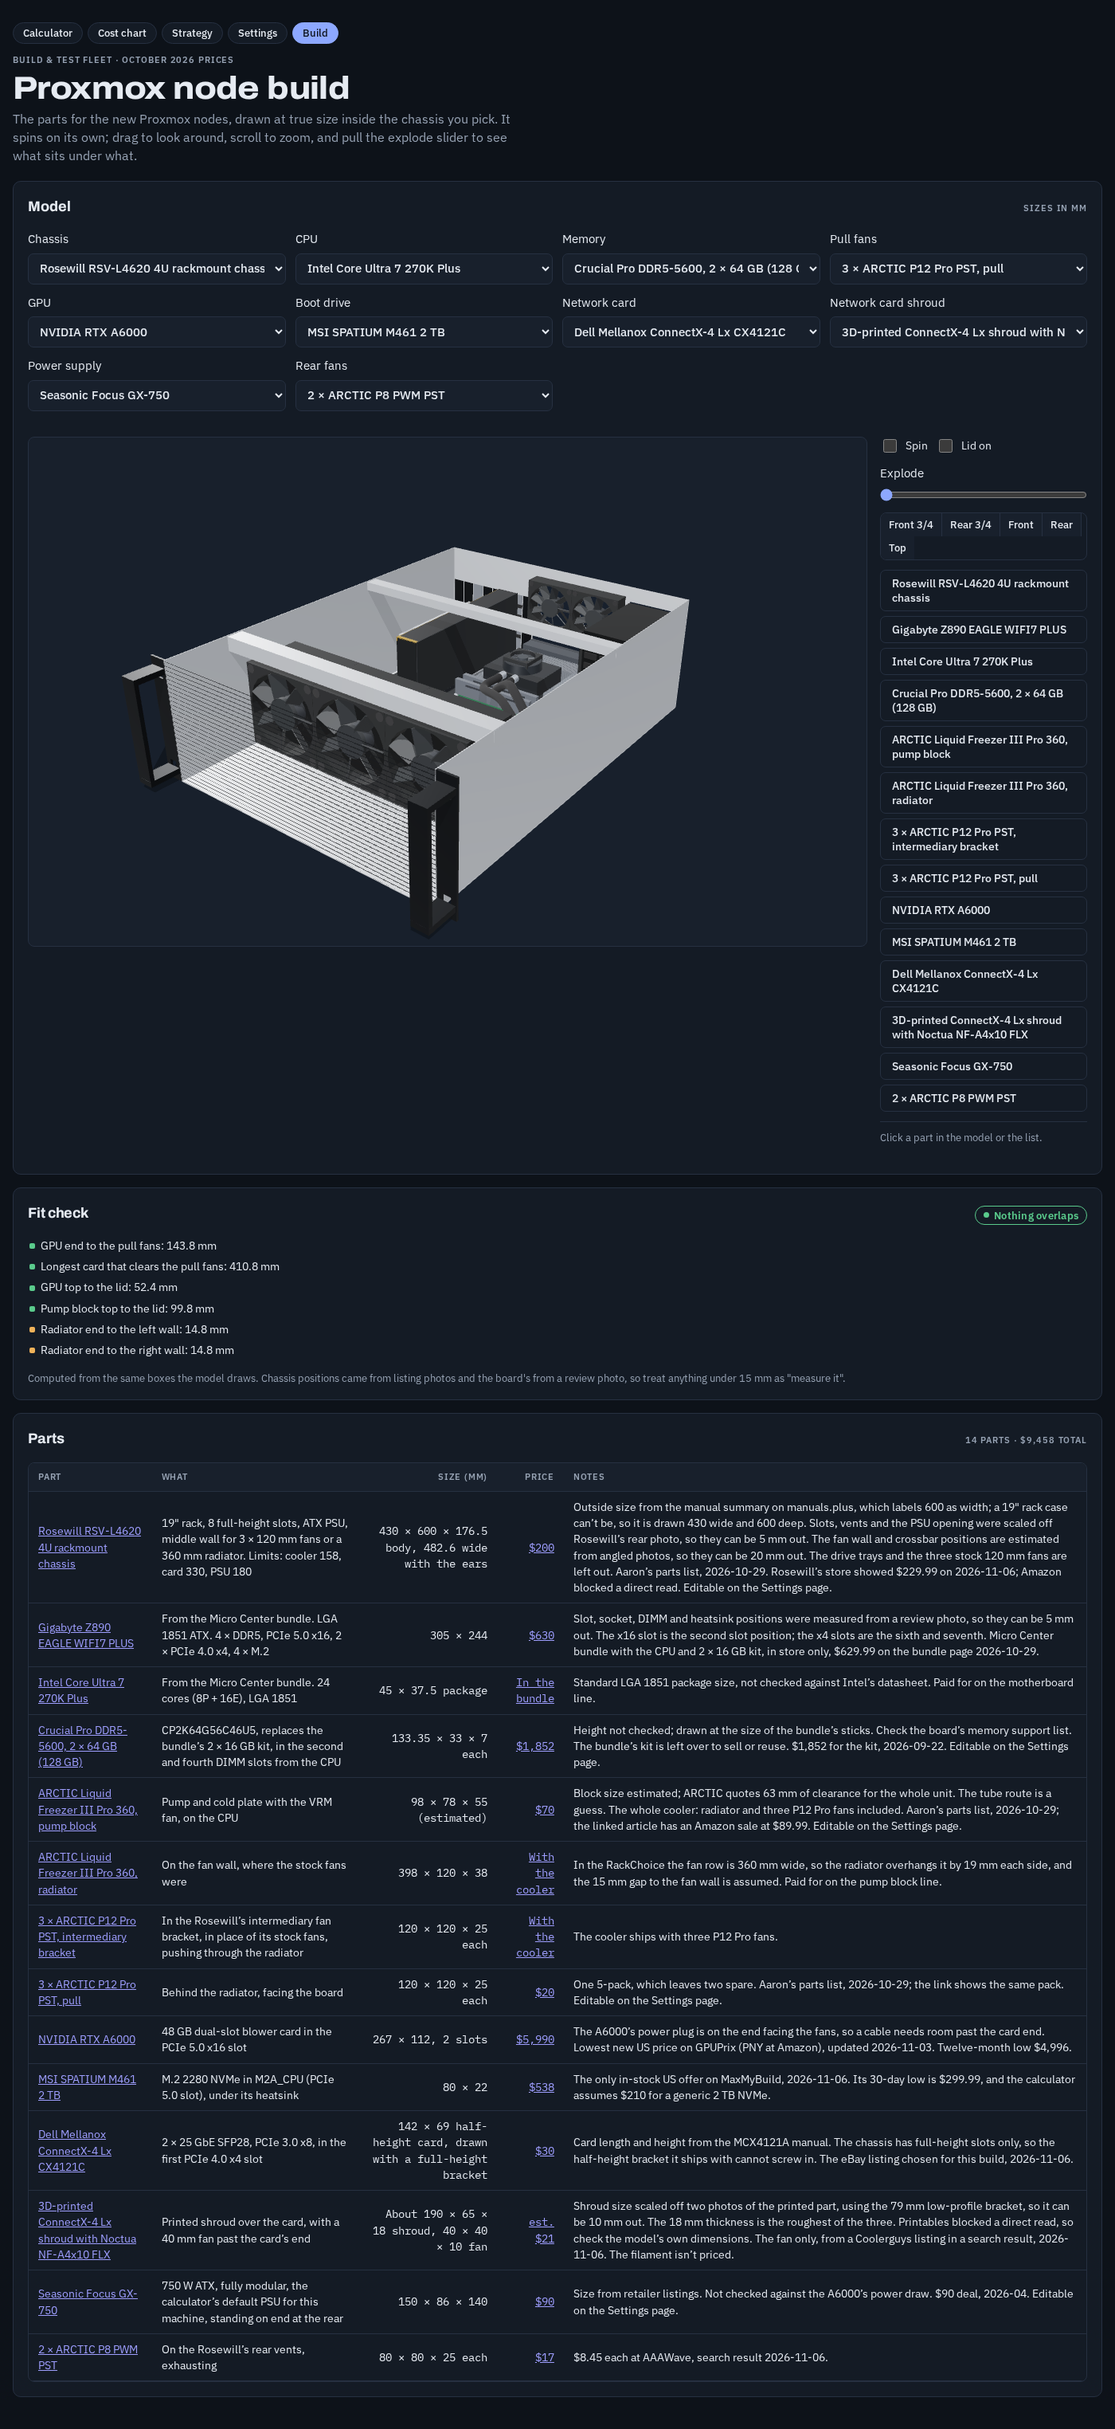
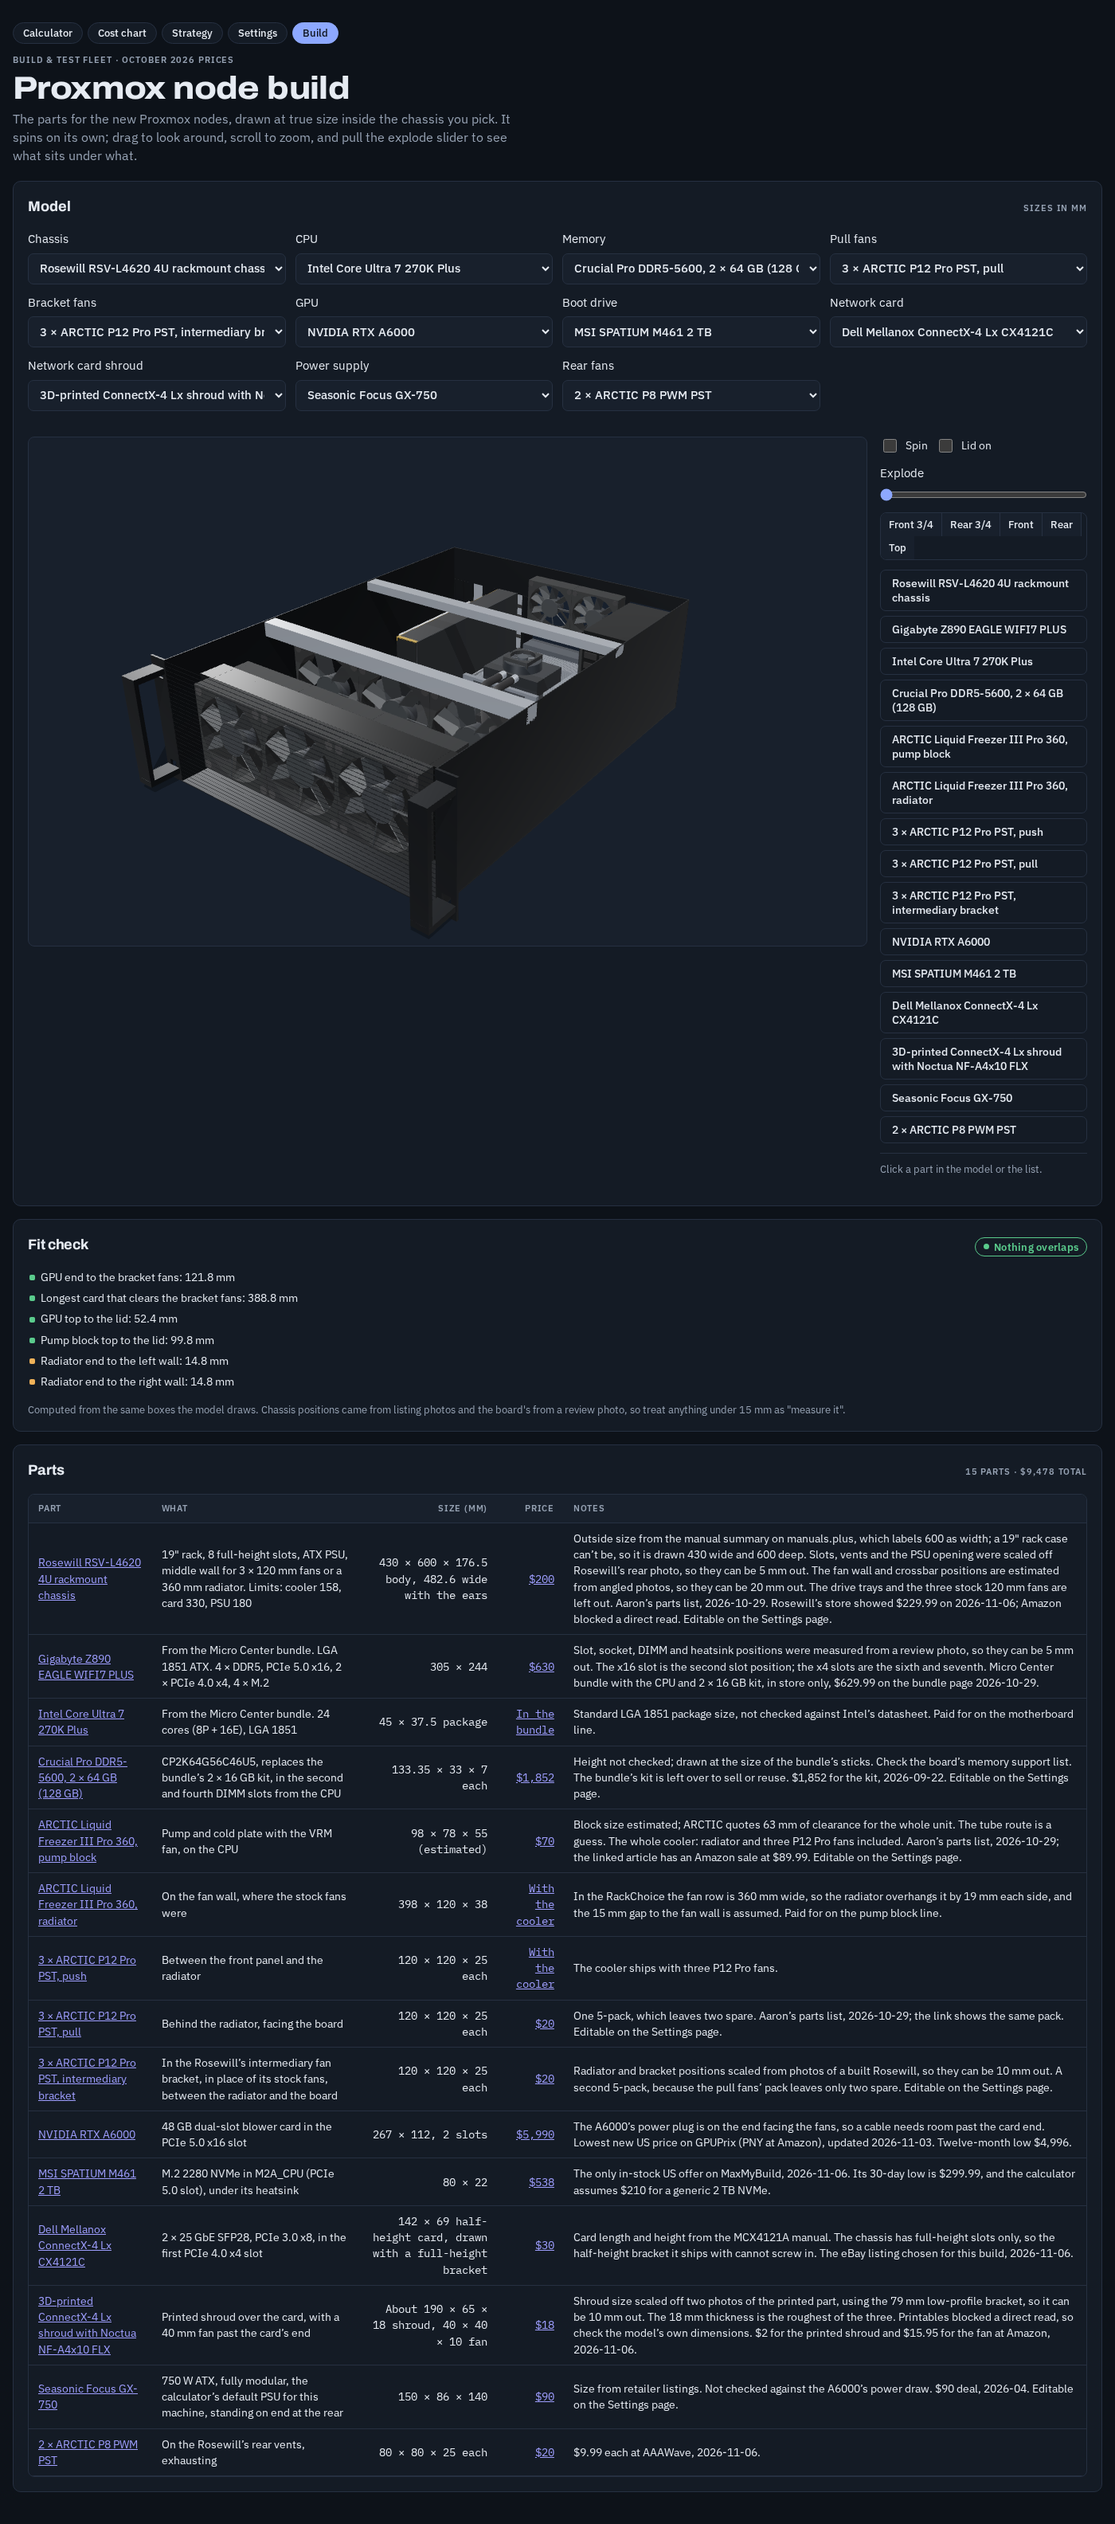
Make the Rosewill black and lay it out like a built one
Radiator at the front with fans on both sides, a separate bracket fan row,
tubes through the gap at the wall and silver crossbars, all scaled from the
owner's photos of a built Rosewill. Nine P12 fans need a second 5-pack.

diff --git a/src/lib/build/layout.ts b/src/lib/build/layout.ts
@@ -60,13 +60,13 @@ const CHASSIS: Record<string, Chassis> = {
     rearHoles: [{ rect: [-46, 9, 113, 60] }, { rect: [134, 3, 198, 120] }, { circle: [2, 94, 29] }, { circle: [68, 94, 29] }],
     body: 0x1c1f23, targetY: 60, frame: 1,
   },
-  // Rear positions scaled off Rosewill's square-on rear photo; the fan wall is estimated from its angled photos.
+  // Rear positions scaled off Rosewill's square-on rear photo; the radiator stack is scaled from photos of a built one.
   rosewill: {
     W: 430, H: 176.5, D: 600, io: 108, slotY: [23, 120],
-    fanX: [-120, 0, 120], fanY: 88, fanWall: 100,
+    fanX: [-120, 0, 120], fanY: 88, fanWall: 15,
     psuX: 164.75, rearFanX: [-5, 75], rearFanY: 120,
     rearHoles: [{ rect: [-49, 12, 112, 63] }, { rect: [122, 3, 207.5, 153] }, { circle: [-5, 120, 38] }, { circle: [75, 120, 38] }],
-    body: 0xb4b8be, targetY: 80, frame: 1.3,
+    body: 0x1c1f23, targetY: 80, frame: 1.3,
   },
 };
 
@@ -81,6 +81,9 @@ const FAN = 25;
 const RAD = 38;
 /** Width, height and depth as the PSU stands on end, modular face toward the front. */
 const PSU_SIZE: Record<string, [number, number, number]> = { sf1000: [63.5, 125, 100], gx750: [86, 150, 140] };
+
+/** Front face to the Rosewill's bracket fans, scaled from photos of a built one. */
+const BRACKET = 185;
 
 /** Box id prefix, which sets the colour, and frame size for each rear fan. */
 const REAR_FAN: Record<string, [string, number]> = { 'nf-a6x25': ['rear-fan', 60], p8: ['rear-p8', 80], 'nf-r8': ['rear-r8', 80] };
@@ -131,9 +134,9 @@ export function layout(config: Config): Box[] {
     // Front-panel USB/switch board, in the front-right corner behind the door.
     b.push(box('front-io', 'chassis', 'solid', [X(388), 95, ZF(14)], [X(418), 128, ZF(2)], fwd(120)));
   } else {
-    // The crossbar over the board and the top of the fan wall. Shells, so a guess at their height can't fail the check.
+    // The crossbar over the board and the bracket's bar. Shells, so a guess at their height can't fail the check.
     b.push(box('bar-mid', 'chassis', 'shell', [-W / 2, H - 14, ZR(205)], [W / 2, H - T, ZR(225)], up(110)));
-    b.push(box('bar-wall', 'chassis', 'shell', [-W / 2, H - 22, ZF(C.fanWall + FAN)], [W / 2, H - T, ZF(C.fanWall)], up(110)));
+    b.push(box('bar-wall', 'chassis', 'shell', [-W / 2, H - 22, ZF(BRACKET)], [W / 2, H - T, ZF(BRACKET - 20)], up(110)));
   }
   // Blank covers on every slot no card uses.
   const used = [...(config.gpu ? [GPU_SLOT, GPU_SLOT + 1] : []), ...(config.nic ? [NIC_SLOT] : [])];
@@ -194,6 +197,7 @@ export function layout(config: Config): Box[] {
   // Front wall: push fans, radiator, pull fans.
   C.fanX.forEach((cx, i) => b.push(centred(`push-${i}`, 'fans-push', 'solid', [cx, C.fanY, ZF(C.fanWall + FAN / 2)], [120, 120, FAN], fwd(150))));
   b.push(centred('radiator', 'radiator', 'solid', [(C.fanX[0] + C.fanX[2]) / 2, C.fanY, ZF(C.fanWall + FAN + RAD / 2)], [398, 120, RAD], fwd(100)));
+  if (config['fans-bracket']) C.fanX.forEach((cx, i) => b.push(centred(`bracket-${i}`, 'fans-bracket', 'solid', [cx, C.fanY, ZF(BRACKET + FAN / 2)], [120, 120, FAN], up(60))));
   if (config['fans-pull']) C.fanX.forEach((cx, i) => b.push(centred(`pull-${i}`, 'fans-pull', 'solid', [cx, C.fanY, ZF(C.fanWall + FAN + RAD + FAN / 2)], [120, 120, FAN], fwd(50))));
 
   return b;
@@ -225,9 +229,9 @@ export function checkFit(boxes: Box[], config: Config): Fit {
   const outside = solids.filter((b) => [0, 1, 2].some((k) => b.min[k] < lim[k][0] - 0.01 || b.max[k] > lim[k][1] + 0.01)).map((b) => b.id);
   const by = (id: string) => boxes.find((b) => b.id === id);
   const gpu = by('gpu'), rad = by('radiator')!, pump = by('pump')!;
-  const pull = by('pull-0');
-  const wall = pull ?? rad;
-  const wallName = pull ? 'pull fans' : 'radiator';
+  const bracket = by('bracket-0'), pull = by('pull-0');
+  const wall = bracket ?? pull ?? rad;
+  const wallName = bracket ? 'bracket fans' : pull ? 'pull fans' : 'radiator';
   const gaps = [
     ...(gpu ? [
       { label: `GPU end to the ${wallName}`, mm: wall.min[2] - gpu.max[2] },

diff --git a/src/data/build.ts b/src/data/build.ts
@@ -170,7 +170,7 @@ export const SLOTS: Slot[] = [
     parts: [{
       id: 'lf3-radiator',
       name: 'ARCTIC Liquid Freezer III Pro 360, radiator',
-      spec: 'On the fan wall, where the stock fans were',
+      spec: 'At the front of the case; in the RackChoice, on the fan wall where the stock fans were',
       size: '398 × 120 × 38',
       source: 'https://www.alza.cz/kod/CBlf3b07',
       note: 'In the RackChoice the fan row is 360 mm wide, so the radiator overhangs it by 19 mm each side, and the 15 mm gap to the fan wall is assumed.',
@@ -184,16 +184,6 @@ export const SLOTS: Slot[] = [
     id: 'fans-push',
     label: 'Push fans',
     parts: [{
-      id: 'p12-bracket',
-      name: '3 × ARCTIC P12 Pro PST, intermediary bracket',
-      spec: 'In the Rosewill’s intermediary fan bracket, in place of its stock fans, pushing through the radiator',
-      size: '120 × 120 × 25 each',
-      url: 'https://tomshardware.com/pc-components/the-best-cpu-cooler-money-can-buy-is-now-just-usd89-99-grab-28-percent-off-an-arctic-liquid-freezer-iii-pro-at-amazon-just-usd7-shy-of-its-best-ever-price',
-      price: 0,
-      priceLabel: 'With the cooler',
-      priceNote: 'The cooler ships with three P12 Pro fans.',
-      chassis: 'rosewill',
-    }, {
       id: 'p12-push',
       name: '3 × ARCTIC P12 Pro PST, push',
       spec: 'Between the front panel and the radiator',
@@ -202,7 +192,6 @@ export const SLOTS: Slot[] = [
       price: 0,
       priceLabel: 'With the cooler',
       priceNote: 'The cooler ships with three P12 Pro fans.',
-      chassis: 'rackchoice',
     }],
   },
   {
@@ -217,6 +206,22 @@ export const SLOTS: Slot[] = [
       url: 'https://www.centralcomputer.com/arctic-acfan00307a-p12-pro-pst-5-pack-black-powerful-premium-fan-120-mm-pwm-fan-with-y-cable-splitter-600-3000-rpm-0-rpm-5-pwm-fluid-dynamic-bearing-4-pin.html',
       price: (s) => s.parts.fans,
       priceNote: `One 5-pack, which leaves two spare. Aaron’s parts list, 2026-10-29; the link shows the same pack. ${SETTINGS}`,
+    }],
+  },
+  {
+    id: 'fans-bracket',
+    label: 'Bracket fans',
+    optional: true,
+    parts: [{
+      id: 'p12-bracket',
+      name: '3 × ARCTIC P12 Pro PST, intermediary bracket',
+      spec: 'In the Rosewill’s intermediary fan bracket, in place of its stock fans, between the radiator and the board',
+      size: '120 × 120 × 25 each',
+      note: 'Radiator and bracket positions scaled from photos of a built Rosewill, so they can be 10 mm out.',
+      url: 'https://www.centralcomputer.com/arctic-acfan00307a-p12-pro-pst-5-pack-black-powerful-premium-fan-120-mm-pwm-fan-with-y-cable-splitter-600-3000-rpm-0-rpm-5-pwm-fluid-dynamic-bearing-4-pin.html',
+      price: (s) => s.parts.fans,
+      priceNote: `A second 5-pack, because the pull fans’ pack leaves only two spare. ${SETTINGS}`,
+      chassis: 'rosewill',
     }],
   },
   {
@@ -351,8 +356,8 @@ export const SLOTS: Slot[] = [
 
 /** The parts each chassis is built with; choosing a chassis sets these, and they can still be changed after. */
 const CHASSIS_PARTS: Record<string, Config> = {
-  rackchoice: { psu: 'sf1000', 'fans-rear': 'nf-a6x25', 'fans-push': 'p12-push' },
-  rosewill: { psu: 'gx750', 'fans-rear': 'p8', 'fans-push': 'p12-bracket' },
+  rackchoice: { psu: 'sf1000', 'fans-rear': 'nf-a6x25', 'fans-bracket': null },
+  rosewill: { psu: 'gx750', 'fans-rear': 'p8', 'fans-bracket': 'p12-bracket' },
 };
 export const withChassis = (c: Config, chassis: string): Config => ({ ...c, chassis, ...CHASSIS_PARTS[chassis] });
 

diff --git a/test/build.test.ts b/test/build.test.ts
@@ -21,7 +21,7 @@ describe('build layout', () => {
       expect(fit.overlaps).toEqual([]);
     });
 
-    it(`${name}: leaves room between the GPU and the pull fans`, () => {
+    it(`${name}: leaves room between the GPU and the fans ahead of it`, () => {
       const gap = fit.gaps.find((g) => g.label.startsWith('GPU end'))!;
       expect(gap.mm).toBeGreaterThan(0);
     });
@@ -33,8 +33,8 @@ describe('build layout', () => {
   });
 
   it('RackChoice is the default, and a chassis sets its parts and leaves the rest alone', () => {
-    expect(DEFAULT_CONFIG).toMatchObject({ chassis: 'rackchoice', psu: 'sf1000', 'fans-rear': 'nf-a6x25', 'fans-push': 'p12-push' });
-    expect(rosewill).toEqual({ ...DEFAULT_CONFIG, chassis: 'rosewill', psu: 'gx750', 'fans-rear': 'p8', 'fans-push': 'p12-bracket' });
+    expect(DEFAULT_CONFIG).toMatchObject({ chassis: 'rackchoice', psu: 'sf1000', 'fans-rear': 'nf-a6x25', 'fans-bracket': null });
+    expect(rosewill).toEqual({ ...DEFAULT_CONFIG, chassis: 'rosewill', psu: 'gx750', 'fans-rear': 'p8', 'fans-bracket': 'p12-bracket' });
     expect(withChassis(rosewill, 'rackchoice')).toEqual(DEFAULT_CONFIG);
   });
 
@@ -49,6 +49,16 @@ describe('build layout', () => {
       expect(checkFit(boxes, c).overlaps).toEqual([]);
       expect(checkFit(boxes, c).outside).toEqual([]);
     }
+  });
+
+  it('Rosewill stacks fans, radiator and fans at the front, then the bracket fans, then the board', () => {
+    const boxes = layout(rosewill);
+    const z = (id: string) => boxes.find((b) => b.id === id)!;
+    expect(z('push-0').max[2]).toBeGreaterThan(z('radiator').max[2]);
+    expect(z('radiator').min[2]).toBeGreaterThanOrEqual(z('pull-0').max[2]);
+    expect(z('pull-0').min[2]).toBeGreaterThan(z('bracket-0').max[2]);
+    expect(z('bracket-0').min[2]).toBeGreaterThan(z('gpu').max[2]);
+    expect(layout(DEFAULT_CONFIG).some((b) => b.part === 'fans-bracket')).toBe(false);
   });
 
   it('warns only when there is no GPU and the CPU has no integrated graphics', () => {

diff --git a/e2e/build.spec.ts b/e2e/build.spec.ts
@@ -59,7 +59,30 @@ test('swapping parts updates the model, the fit check and the prices', async ({ 
   await page.getByLabel('Chassis').selectOption('rackchoice');
   await expect(page.getByLabel('Power supply')).toHaveValue('sf1000');
   await expect(page.getByLabel('Rear fans')).toHaveValue('nf-a6x25');
-  await expect(page.getByRole('button', { name: '3 × ARCTIC P12 Pro PST, push' })).toBeVisible();
+  await expect(page.getByRole('button', { name: '3 × ARCTIC P12 Pro PST, intermediary bracket' })).toHaveCount(0);
+  await expect(page.getByLabel('Bracket fans')).toBeDisabled();
+});
+
+test('Rosewill cooler tubes run past the bracket fans, inside the wall', async ({ page }) => {
+  await page.emulateMedia({ reducedMotion: 'reduce' });
+  await page.goto(url);
+  await page.getByLabel('Chassis').selectOption('rosewill');
+  const { inFans, maxX } = await page.evaluate(() => {
+    const { byPart } = (window as any).__build.model();
+    const fans = byPart.get('fans-bracket').map((o: any) => o.position);
+    let inFans = 0, maxX = 0;
+    for (const t of byPart.get('cooler').filter((o: any) => o.geometry?.type === 'TubeGeometry')) {
+      const p = t.geometry.attributes.position;
+      for (let i = 0; i < p.count; i++) {
+        const [x, y, z] = [p.getX(i), p.getY(i), p.getZ(i)];
+        maxX = Math.max(maxX, x);
+        if (fans.some((f: any) => Math.abs(x - f.x) < 60 && Math.abs(y - f.y) < 60 && Math.abs(z - f.z) < 12.5)) inFans++;
+      }
+    }
+    return { inFans, maxX };
+  });
+  expect(inFans).toBe(0);
+  expect(maxX).toBeLessThan(215);
 });
 
 test('leaving out the GPU warns only with a CPU that has no integrated graphics', async ({ page }) => {

diff --git a/src/lib/build/scene.ts b/src/lib/build/scene.ts
@@ -51,14 +51,20 @@ export function buildModel(config: Config): Built {
     if (!pump || !radiator) return;
     const rb = new THREE.Box3().setFromObject(radiator);
     const pb = new THREE.Box3().setFromObject(pump);
+    const bracketFans = byPart.get('fans-bracket');
+    const bracket = bracketFans && bracketFans.reduce((box, o) => box.expandByObject(o), new THREE.Box3());
     tubes.forEach((t, i) => {
       const dy = i ? 14 : -14;
       const dx = i ? 11 : -11;
       const start = new THREE.Vector3(rb.max.x - 12, (rb.min.y + rb.max.y) / 2 + dy, rb.min.z);
       const end = new THREE.Vector3((pb.min.x + pb.max.x) / 2 + dx, pb.max.y - 22, pb.max.z);
+      // Past the bracket fans through the gap at the wall, as on a built Rosewill.
+      const x = bracket ? bracket.max.x + (i ? 24 : 9) : 0;
+      const bypass = bracket ? [new THREE.Vector3(x, start.y, bracket.max.z + 5), new THREE.Vector3(x, start.y, bracket.min.z - 5)] : [];
       const curve = new THREE.CatmullRomCurve3([
         start,
         start.clone().add(new THREE.Vector3(0, 0, -45)),
+        ...bypass,
         new THREE.Vector3((start.x + end.x) / 2, Math.max(start.y, end.y) + 15, (start.z + end.z) / 2),
         end.clone().add(new THREE.Vector3(0, 0, 40)),
         end,

diff --git a/src/lib/build/parts.ts b/src/lib/build/parts.ts
@@ -364,8 +364,8 @@ const BY_ID: Record<string, Builder> = {
   floor: ([w, h, d], _, C) => box(w, h, d, BODY(C)),
   'wall-l': ([w, h, d], _, C) => box(w, h, d, BODY(C)),
   'wall-r': ([w, h, d], _, C) => box(w, h, d, BODY(C)),
-  'bar-mid': ([w, h, d], _, C) => box(w, h, d, BODY(C)),
-  'bar-wall': ([w, h, d], _, C) => box(w, h, d, BODY(C)),
+  'bar-mid': ([w, h, d]) => box(w, h, d, ALU()),
+  'bar-wall': ([w, h, d]) => box(w, h, d, ALU()),
   rear,
   ears: ([w, h, d]) => {
     const g = new THREE.Group();
@@ -378,6 +378,7 @@ const BY_ID: Record<string, Builder> = {
 const BY_PREFIX: [string, Builder][] = [
   ['push-', ([w, , d]) => fan(w, d, 0x141618, 0x232629)],
   ['pull-', ([w, , d]) => fan(w, d, 0x141618, 0x232629)],
+  ['bracket-', ([w, , d]) => fan(w, d, 0x141618, 0x232629)],
   ['rear-fan-', ([w, , d]) => fan(w, d, 0x5f4537, 0xc9b79a)],
   ['rear-p8-', ([w, , d]) => fan(w, d, 0x141618, 0x232629)],
   ['rear-r8-', ([w, , d]) => fan(w, d, 0x3a3d42, 0x7c8087)],

diff --git a/src/scripts/build.ts b/src/scripts/build.ts
@@ -44,7 +44,7 @@ function renderPanels() {
   // The dropdowns follow the config: a chassis sets some parts, and offers only the parts that suit it.
   document.querySelectorAll<HTMLSelectElement>('#swaps select').forEach((el) => {
     const slot = SLOTS.find((s) => s.id === el.dataset.slot)!;
-    el.disabled = !!slot.requires && !config[slot.requires];
+    el.disabled = (!!slot.requires && !config[slot.requires]) || !slot.parts.some((p) => !p.chassis || p.chassis === config.chassis);
     for (const o of el.options) {
       const only = slot.parts.find((p) => p.id === o.value)?.chassis;
       o.hidden = o.disabled = !!only && only !== config.chassis;

diff --git a/docs/validation.md b/docs/validation.md
@@ -55,4 +55,4 @@ The multi-model plan review is deferred under the worker contract in [the plan r
 
 ## Build page
 
-The Build page draws the Proxmox node parts with Three.js from box positions in `src/lib/build/layout.ts`, for whichever chassis and parts are chosen. `test/build.test.ts` checks both chassis: every chosen part is drawn, no solid part overlaps another or leaves the chassis, and the GPU clears the pull fans. It also checks that the ATX PSU is caught in the 3U case, that a chassis sets its own parts, that no GPU with a no-graphics CPU warns, that the network card shroud only appears with its card, that empty slots draw nothing, and that every part has a link and a price; the page's fit check prints the same numbers. `e2e/build.spec.ts` covers the render, a part pick, swapping parts, the 400px no-horizontal-scroll rule, zoom kept across a window resize or phone rotation, the model staying drawn when fully zoomed out at 320px, and view buttons returning to the clean preset after a pan or pinch. Screenshots: [1400 light](validation/build-1400-light.png), [1400 dark](validation/build-1400-dark.png), [400](validation/build-400.png). Chassis interior positions come from listing photos and the board's from a review photo; the parts table notes which sizes and prices are estimates.
+The Build page draws the Proxmox node parts with Three.js from box positions in `src/lib/build/layout.ts`, for whichever chassis and parts are chosen. `test/build.test.ts` checks both chassis: every chosen part is drawn, no solid part overlaps another or leaves the chassis, and the GPU clears the fans ahead of it. It also checks that the ATX PSU is caught in the 3U case, that a chassis sets its own parts, that the Rosewill's fan rows sit in the order of a built one, that no GPU with a no-graphics CPU warns, that the network card shroud only appears with its card, that empty slots draw nothing, and that every part has a link and a price; the page's fit check prints the same numbers. `e2e/build.spec.ts` covers the render, a part pick, swapping parts, the 400px no-horizontal-scroll rule, zoom kept across a window resize or phone rotation, the model staying drawn when fully zoomed out at 320px, and view buttons returning to the clean preset after a pan or pinch. Screenshots: [1400 light](validation/build-1400-light.png), [1400 dark](validation/build-1400-dark.png), [400](validation/build-400.png). Chassis interior positions come from listing photos and the board's from a review photo; the parts table notes which sizes and prices are estimates.
